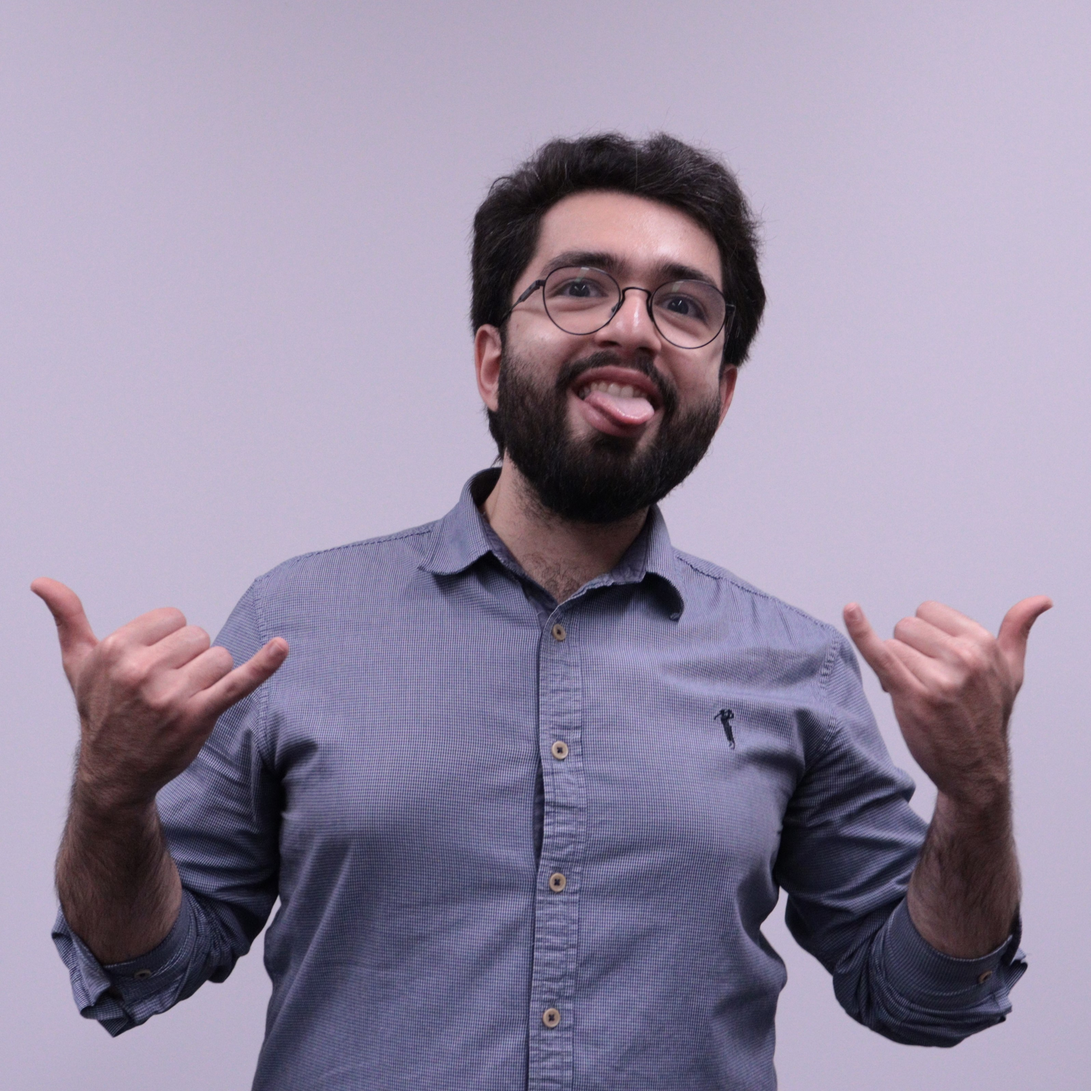
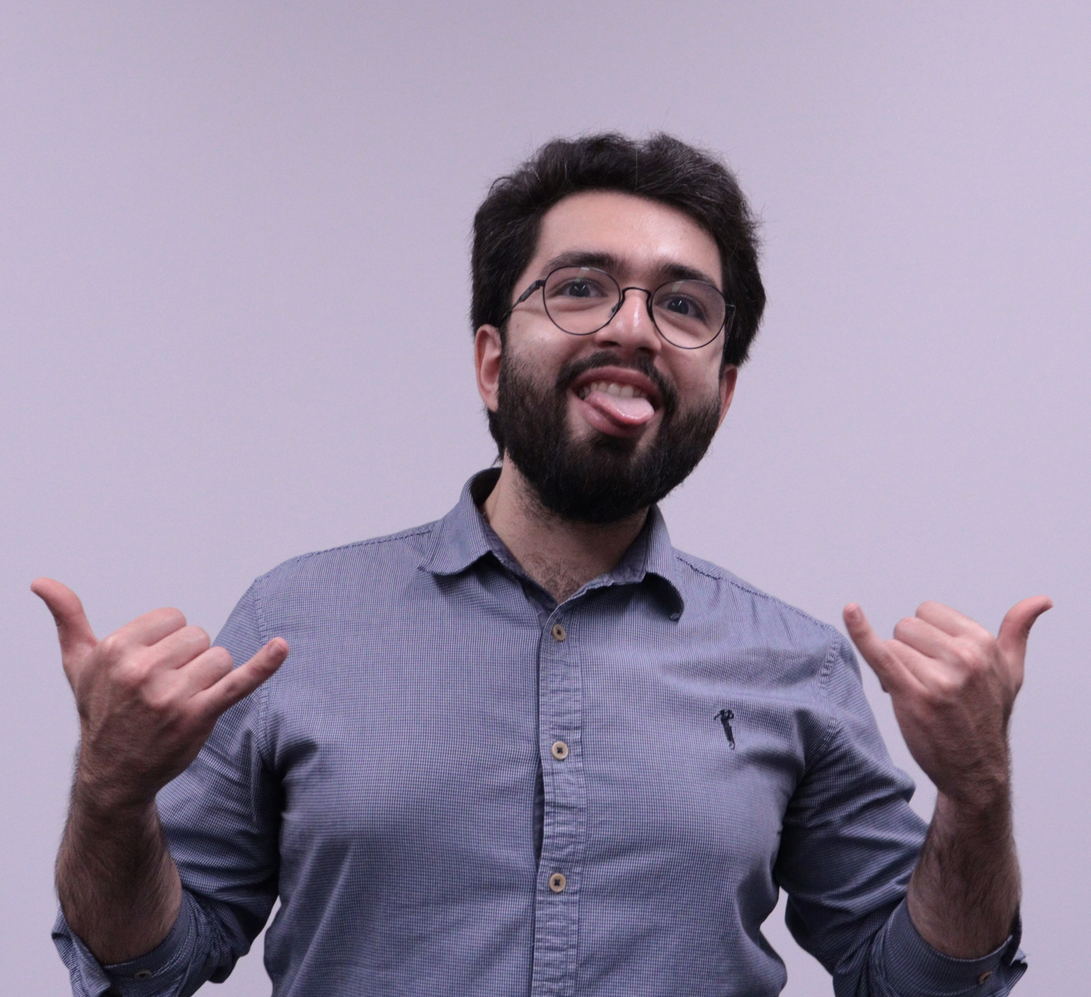
Updated pics + Events

diff --git a/content/eventslist.js b/content/eventslist.js
@@ -1,19 +1,5 @@
 const eventlist = [
   {
-    Title: "Intro to Matlab",
-    Date: "Oct 5th, 2023",
-    Location: "MB - S1.435",
-    Type: "Academic",
-    Time: "18:00-20:00",
-    Description:
-      "Unlock MATLAB's potential in our interactive workshop! Learn the basics, from navigating the interface to data visualization, with giveaways and free refreshments. Perfect for students or anyone curious about MATLAB.",
-    Price: "TBD",
-    Organizer: "Ngoc Son (Samuel) Tran",
-    Sponsors: "TBD",
-    Image: "Intro-to-Matlab.png",
-    link: "intro-to-matlab",
-  },
-  {
     Title: "Soldering Tutorial",
     Date: "Oct 19th, 2023",
     Location: "MB - 3.255",
@@ -24,8 +10,22 @@ const eventlist = [
     Price: "TBD",
     Organizer: "Alexandre Fontaine",
     Sponsors: "TBD",
-    Image: "Soldering-Tutorial.png",
+    Image: "Intro-to-Soldering.png",
     link: "soldering-tutorial",
+  },
+  {
+    Title: "3D Modeling and Design P2",
+    Date: "Oct 26th, 2023",
+    Location: "MB - 3.255",
+    Type: "Academic",
+    Time: "18:00-21:00",
+    Description:
+      "Embark on a journey to master 3D modeling in our beginner's workshop and learn the skill used by designers, engineers, and artists worldwide",
+    Price: "TBD",
+    Organizer: "Alexandre Fontaine",
+    Sponsors: "TBD",
+    Image: "3D-Modeling-and-Design.png",
+    link: "3d-modeling-and-design",
   },
   {
     Title: "IEEEXtreme",
@@ -40,6 +40,34 @@ const eventlist = [
     Sponsors: "TBD",
     Image: "IEEEXtreme.png",
     link: "ieeextreme",
+  },
+  {
+    Title: "Intro to Arduino",
+    Date: "Nov 9th, 2023",
+    Location: "H-620",
+    Type: "Academic",
+    Time: "TBD",
+    Description:
+      "Learn Arduino fundamentals and gain hands-on experience. Explore the microcontroller's vast applications and immediately apply your knowledge with guidance from experienced tutors.",
+    Price: "TBD",
+    Organizer: "Alexandre Fontaine",
+    Sponsors: "TBD",
+    Image: "Intro-to-Arduino.png",
+    link: "intro-to-arduino",
+  },
+  {
+    Title: "Intro to Transistors",
+    Date: "Nov 16th, 2023",
+    Location: "H-529",
+    Type: "Academic",
+    Time: "18h-21h",
+    Description:
+      "Reinforce your theoretical knowledge about transistors by building and experimenting with actual electric circuits.",
+    Price: "10",
+    Organizer: "Alexandre Fontaine",
+    Sponsors: "",
+    Image: "Intro-to-Transistors.png",
+    link: "intro-to-transistors",
   },
   {
     Title: "Robowars",
@@ -84,20 +112,7 @@ const eventlist = [
     Image: "Intro-to-lab-equipement.png",
     link: "intro-to-lab-equipement",
   },
-  {
-    Title: "3D Modeling and Design",
-    Date: "Sep 28th, 2023",
-    Location: "EV - 2.184",
-    Type: "PASSED",
-    Time: "18:00-21:00",
-    Description:
-      "Embark on a journey to master 3D modeling in our beginner's workshop and learn the skill used by designers, engineers, and artists worldwide",
-    Price: "TBD",
-    Organizer: "Alexandre Fontaine",
-    Sponsors: "TBD",
-    Image: "3D-Modeling-and-Design.png",
-    link: "3d-modeling-and-design",
-  },
+
   {
     Title: "IEEE Day",
     Date: "Oct 3rd, 2023",
@@ -111,6 +126,20 @@ const eventlist = [
     Sponsors: "TBD",
     Image: "IEEE-Day.png",
     link: "ieee-day",
+  },
+  {
+    Title: "Intro to Matlab",
+    Date: "Oct 5th, 2023",
+    Location: "MB - S1.435",
+    Type: "PASSED",
+    Time: "18:00-20:00",
+    Description:
+      "Unlock MATLAB's potential in our interactive workshop! Learn the basics, from navigating the interface to data visualization, with giveaways and free refreshments. Perfect for students or anyone curious about MATLAB.",
+    Price: "TBD",
+    Organizer: "Ngoc Son (Samuel) Tran",
+    Sponsors: "TBD",
+    Image: "Intro-to-Matlab.png",
+    link: "intro-to-matlab",
   },
 ];
 

diff --git a/pages/events/intro-to-transistors.tsx b/pages/events/intro-to-transistors.tsx
@@ -1,0 +1,57 @@
+import React from "react";
+import RootLayout from "../layout";
+import styles from "@/styles/markdown.module.css";
+import Link from "next/link";
+
+export default function IntroToTransistors() {
+  return (
+    <RootLayout>
+      <div className="max-w-4xl md:max-w-full flex flex-col px-8 sm:px-20 xl:px-section mb-2">
+        <h1 className="font-lora font-bold text-center text-headline-l text-secondary pb-4">
+          Intro to Transistors
+        </h1>
+      </div>
+      <div className={styles.markdown}>
+        <img
+          src="Intro-to-Transistors.png"
+          alt="Intro to Transistors Banner"
+          className="w-full max-h-80 object-cover"
+        />
+        <div>
+          <ul>
+            <li>Date: Nov 9th, 2023</li>
+            <li>Location: H-620</li>
+            <li>Time: 16:00-21:00</li>
+          </ul>
+          <h2 id="about-the-event">About The Event</h2>
+          <p>
+            🔌🔬 Join us for an insightful workshop on the essential components
+            of modern technology - transistors. We will delve into the
+            fundamentals of various transistor types, exploring their distinct
+            behaviors across different operating modes.
+          </p>
+          <h2>Why Should I Attend</h2>
+          <p>
+            🧠💡 This workshop offers a unique opportunity to solidify your
+            theoretical understanding of transistors. Through hands-on
+            experience, you'll build and experiment with real electric circuits,
+            bridging the gap between theory and practice. Don't miss out on this
+            invaluable learning experience; register now!
+          </p>
+          <h2 id="what-you-need">What You Need</h2>
+          <p>
+            👩🔧🧰 To fully participate, bring your enthusiasm for electronics and
+            a readiness to learn. We'll provide all the necessary materials and
+            guidance to ensure you gain practical knowledge about transistors.
+          </p>
+          {/* <Link
+            href={"https://www.arduino.cc/en/software"}
+            className="bg-blue-500 hover:bg-blue-700 text-white font-bold font-raleway py-2 px-4 rounded"
+          >
+            Arduino IDE
+          </Link> */}
+        </div>
+      </div>
+    </RootLayout>
+  );
+}

diff --git a/pages/events/intro-to-arduino.tsx b/pages/events/intro-to-arduino.tsx
@@ -1,0 +1,57 @@
+import React from "react";
+import RootLayout from "../layout";
+import styles from "@/styles/markdown.module.css";
+import Link from "next/link";
+
+export default function IntroToArduino() {
+  return (
+    <RootLayout>
+      <div className="max-w-4xl md:max-w-full flex flex-col px-8 sm:px-20 xl:px-section mb-2">
+        <h1 className="font-lora font-bold text-center text-headline-l text-secondary pb-4">
+          Intro to Arduino
+        </h1>
+      </div>
+      <div className={styles.markdown}>
+        <img
+          src="Intro-to-Arduino.png"
+          alt="Intro to Arduino Banner"
+          className="w-full max-h-80 object-cover"
+        />
+        <div>
+          <ul>
+            <li>Date: Nov 9th, 2023</li>
+            <li>Location: H-620</li>
+            <li>Time: 16:00-21:00</li>
+          </ul>
+          <h2 id="about-the-event">About The Event</h2>
+          <p>
+            Unlock your programming potential with our Arduino Workshops! Join
+            IEEE Concordia for 2 engaging introductory workshops where you'll
+            learn Arduino fundamentals and gain hands-on experience. Explore the
+            microcontroller's vast applications and immediately apply your
+            knowledge with guidance from experienced tutors.
+          </p>
+          <h2>Why Should I Attend</h2>
+          <p>
+            Explore Arduino's broad applications in home automation, robotics,
+            and IoT devices. Some examples of DIY projects are Automated Plant
+            Watering System, Smart Thermostat, Line-Following Robot and there
+            are way more!
+          </p>
+          <h2 id="what-you-need">What You Need</h2>
+          <p>
+            Just bring <b>your laptop with the required USB A Cable dongle</b>.
+            Ensure you've installed Arduino software with Admin permissions.
+            ⚡💡📊
+          </p>
+          <Link
+            href={"https://www.arduino.cc/en/software"}
+            className="bg-blue-500 hover:bg-blue-700 text-white font-bold font-raleway py-2 px-4 rounded"
+          >
+            Arduino IDE
+          </Link>
+        </div>
+      </div>
+    </RootLayout>
+  );
+}

diff --git a/pages/events/3d-modeling-and-design.tsx b/pages/events/3d-modeling-and-design.tsx
@@ -8,7 +8,7 @@ export default function ModelingAndDesign() {
     <RootLayout>
       <div className="max-w-4xl md:max-w-full flex flex-col px-8 sm:px-20 xl:px-section mb-2">
         <h1 className="font-lora font-bold text-center text-headline-l text-secondary pb-4">
-          3D Modeling and Design
+          3D Modeling and Design P2
         </h1>
       </div>
       <div className={styles.markdown}>
@@ -19,8 +19,8 @@ export default function ModelingAndDesign() {
         />
         <div>
           <ul>
-            <li>Date: Sep 28th, 2023</li>
-            <li>Location: EV Building - 2.184</li>
+            <li>Date: Oct 26th, 2023</li>
+            <li>Location: MB - 3.255</li>
             <li>Time: 18:00-21:00</li>
           </ul>
           <h2 id="about-the-event">About The Event</h2>
@@ -45,12 +45,6 @@ export default function ModelingAndDesign() {
             help.
           </p>
           <span className="flex flex-col sm:flex-row gap-6">
-            <Link
-              href={"https://events.vtools.ieee.org/m/373147"}
-              className="bg-blue-500 hover:bg-blue-700 text-white font-bold font-raleway py-2 px-4 rounded"
-            >
-              Register Now!
-            </Link>
             <Link
               href={
                 "https://www.autodesk.ca/en/products/fusion-360/overview?term=1-YEAR&tab=subscription"

diff --git a/pages/about.tsx b/pages/about.tsx
@@ -130,6 +130,16 @@ export default function About() {
                 image={"Sabine.JPG"}
               />
               <Member
+                firstName={"Achal"}
+                lastName={"Patel"}
+                position={"Branch Marketing"}
+                program={"B.Eng. Coen."}
+                discord={"zwaky#7372"}
+                emailIEEE={"academics@ieeeconcordia.ca"}
+                linkedIn={""}
+                image={"Achal.jpg"}
+              />
+              <Member
                 firstName={"Alexandre"}
                 lastName={"Fontaine"}
                 position={"Branch Academics"}
@@ -207,7 +217,7 @@ export default function About() {
                 discord={"saucy0662"}
                 emailIEEE={"warhacks@ieeeconcordia.ca"}
                 linkedIn={""}
-                image={""}
+                image={"Minh.jpg"}
               />
               <Member
                 firstName={"Mazen"}

diff --git a/components/cards/Member.tsx b/components/cards/Member.tsx
@@ -28,11 +28,11 @@ export const Member = ({
   return (
     <div className="w-80 flex flex-col justify-start bg-white border rounded-xl mb-8 shadow-md">
       {/* Image */}
-      <div className="h-56 bg-slate-400 rounded-lg mx-4 mt-4">
+      <div className="h-56 bg-slate-400 rounded-t-lg">
         <img
           src={image ? imagePath : "/avatar.webp"}
           alt="User PP"
-          className="h-56 w-full object-cover rounded-lg"
+          className="h-56 w-full object-cover rounded-t-lg"
         />
       </div>
 

diff --git a/pages/events/soldering-tutorial.tsx b/pages/events/soldering-tutorial.tsx
@@ -13,8 +13,8 @@ export default function SolderingTutorial() {
       </div>
       <div className={styles.markdown}>
         <img
-          src="Soldering-Tutorial.png"
-          alt="ISoldering Tutuorial Banner"
+          src="Intro-to-Soldering.png"
+          alt="Soldering Tutuorial Banner"
           className="w-full max-h-80 object-cover"
         />
         <div>
